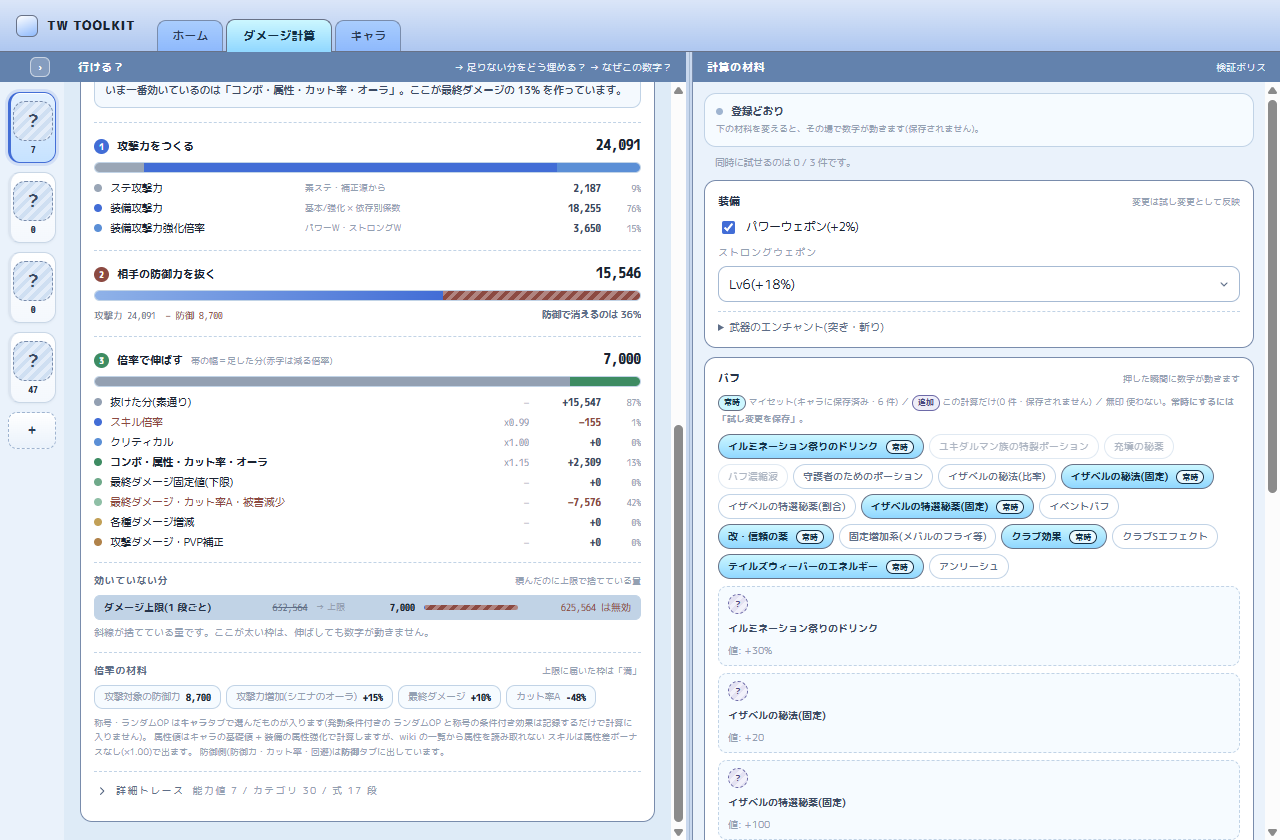
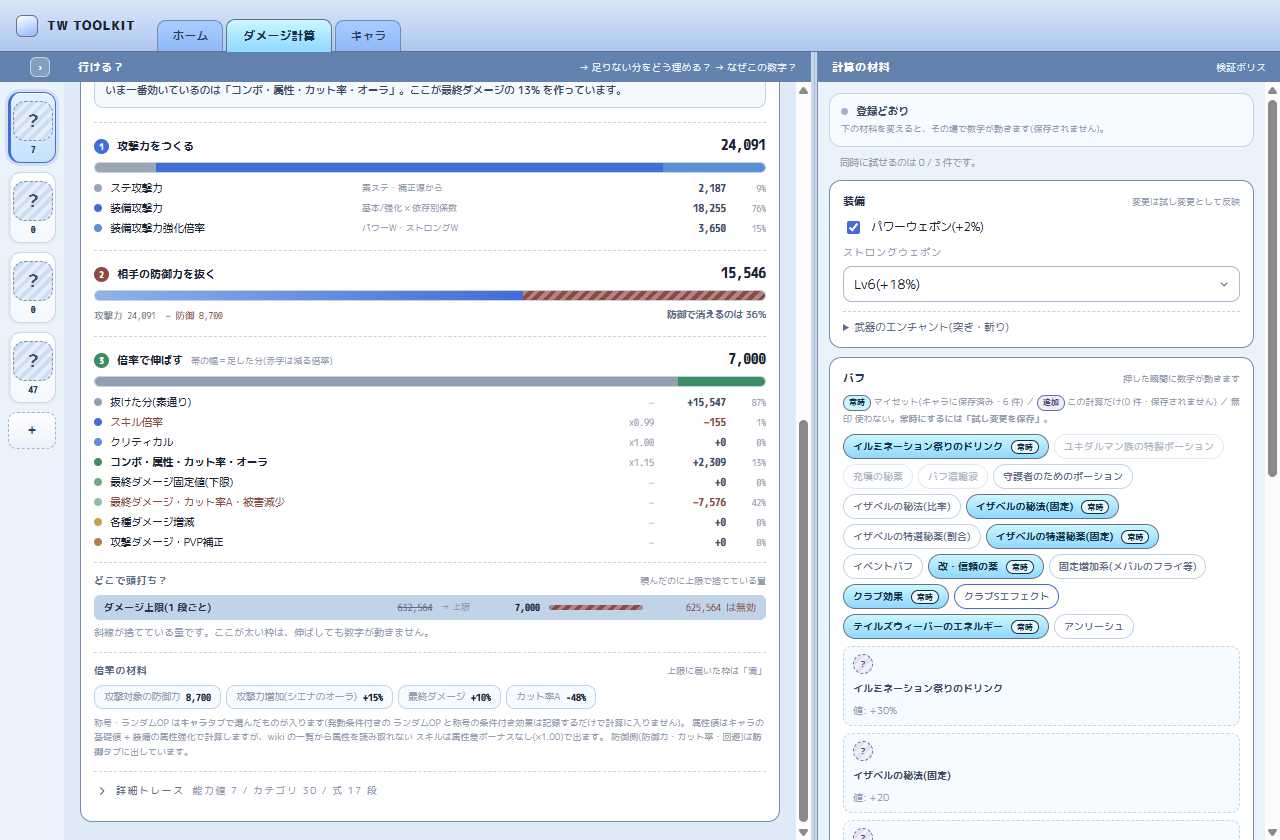
fix(ui): 「効いていない分」を問いの形にする(§13)
§13 は「機能名・データ名で見出しを付けない。プレイヤーがその画面を開いた理由を
そのまま見出しにする」。規格の例も「計算トレース / 内訳 → なぜこの数字?」
「強化候補一覧 → 足りない分をどう埋める?」となっている。

2 周目で足した「効いていない分」は状態の名前で、問いになっていなかった。
「どこで頭打ち?」に直す。

Claude-Session: https://claude.ai/code/session_01JvRWxU3ohwNNHW2hQatCCP

diff --git a/apps/desktop/src/pages/calc/CalcPage.svelte b/apps/desktop/src/pages/calc/CalcPage.svelte
@@ -1104,11 +1104,11 @@
               <!-- 効いていない分(§14 決定 2)。5 階層に散っていた「捨てた量」をここに集める -->
               <div class="materials">
                 <div class="mat-head">
-                  <span class="mat-title">効いていない分</span>
+                  <span class="mat-title">どこで頭打ち？</span>
                   <span class="dim">積んだのに上限で捨てている量</span>
                 </div>
                 {#if lostRows.length === 0}
-                  <p class="lost-none dim">いまはどの上限にも当たっていません。積んだ分はすべて効いています。</p>
+                  <p class="lost-none dim">まだどの上限にも当たっていません。積んだ分はすべて効いています。</p>
                 {:else}
                   <div class="lost">
                     {#each lostRows as r (r.k)}
